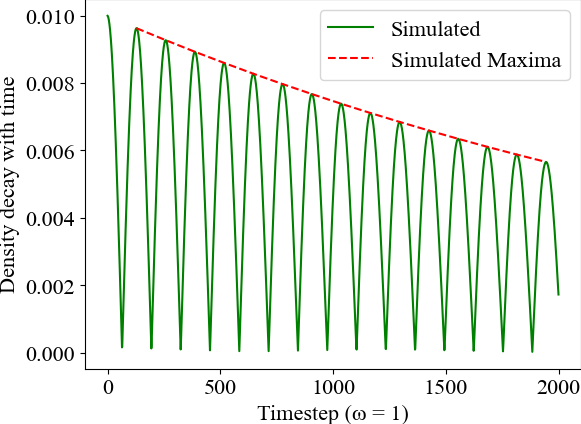
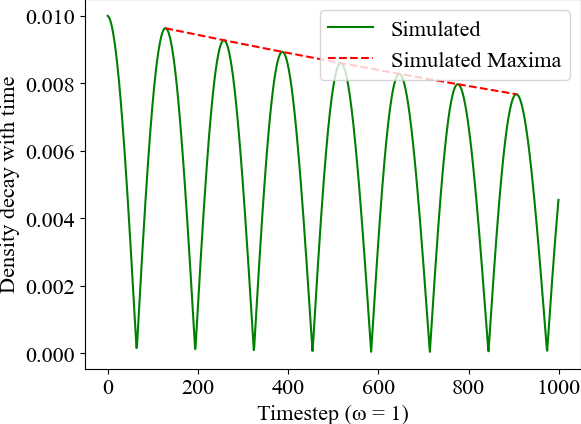
Updated couette flow [RUNNING]

diff --git a/couette_flow.py b/couette_flow.py
@@ -1,0 +1,55 @@
+"""Library Imports"""
+import matplotlib.pyplot as plt
+import numpy as np
+import lbm 
+import constant as CV
+import os
+from typing import Optional
+import sys
+import numpy as np
+from mpi4py import MPI
+import matplotlib.pyplot as plt
+from scipy.optimize import curve_fit
+from scipy.signal import argrelextrema
+from scipy.ndimage import gaussian_filter1d
+from scipy.interpolate import make_interp_spline
+from matplotlib import animation
+from scipy.ndimage.filters import gaussian_filter1d
+
+def couette_flow_simulation(Nx: int, Ny: int, omega: float, output_dir: str, save_every, steps, lid_vel):
+    """ Calculates the shear wave for Nx by Ny D2Q9 lattice"""
+    plt.rcParams.update({'font.size': 16})
+    plt.rcParams["font.family"] = "Times New Roman"
+
+    fig1, ax1 = plt.subplots() #Assigned to continuous flow of velocity  
+    figs, axes = [fig1], [ax1] 
+
+    # Variable declaration
+    common_path = os.path.join(output_dir, 'Couette_flow')    
+    os.makedirs(common_path, exist_ok=True)
+
+    # Initializes density and velocity
+    density = np.ones((Ny, Nx))
+    velocity_field = np.zeros((Ny, Nx, 2))
+
+    # initialize density function w.r.t. rho and u 
+    f = lbm.calculate_equilibrium(density, velocity_field)
+    
+
+    for step in range(steps):
+        print(f'{step+1}//{steps}', end="\r")      
+        
+        f = lbm.streaming(f,Ny, Nx, lid_vel)
+        f, density, velocity = lbm.collision(f, omega)
+
+        if save_every is not None and (not (step % save_every) ):
+            axes[0].cla()
+            axes[0].set_ylabel("Width")
+            axes[0].set_xlabel("velocity in X direction")
+            axes[0].plot(velocity[:,Nx//2,1], np.arange(Ny))
+            save_path = os.path.join(common_path, f'velocity_at{step}.png')
+            axes[0].set_title('Velocity in x direction for lid velocity {} after {} iteration'.format(lid_vel, step))
+            figs[0].savefig(save_path, bbox_inches='tight', pad_inches=0)
+          
+
+

diff --git a/lbm.py b/lbm.py
@@ -15,11 +15,29 @@ def calculate_velocity(f):
     velocity = (np.dot(f, CV.c).T / density.T).T
     return velocity
 
-def streaming(f):
+
+def streaming(f,Ny= None, Nx = None, lid_velocity=None):
     """Streaming takes place here"""
+    # f_copy = np.copy(f)
     for i in range(9):
-        f[:, :, i] = np.roll(np.roll(f[:, :, i], CV.c[i, 0], axis=0), CV.c[i, 1], axis=1)    
+        f[:, :, i] = np.roll(np.roll(f[:, :, i], CV.c[i, 0], axis=0), CV.c[i, 1], axis=1)   
+
+    # return bounce_back(f,lid_velocity)
+    # bounce_back at existing not moving walls
+    if lid_velocity:
+        rho_wall = 2 * (f[-1, :, 6] + f[-1, :, 2] + f[-1, :, 5]) + f[-1, :, 3] + f[-1, :, 0] + f[-1, :, 1]
+        # bounce back at bottom wall
+        f[1,:,2] = f[0,:,4]
+        f[1,:,6] = f[0,:,8] 
+        f[1,:,5] = f[0,:,7]
+
+        # Top moving wall with X velocity
+        f[Ny-2,:,4] = f[Ny-1,:,2] - 1 / 6 * CV.W[2] * rho_wall * np.dot(CV.c[4], [lid_velocity, 0])
+        f[Ny-2,:,7] = f[Ny-1,:,5] - 1 / 6 * CV.W[6] * rho_wall * np.dot(CV.c[7], [lid_velocity, 0])
+        f[Ny-2,:,8] = f[Ny-1,:,6] - 1 / 6 * CV.W[5] * rho_wall * np.dot(CV.c[8], [lid_velocity, 0])
+
     return f
+
 
 # Calculate Feq
 def calculate_equilibrium(density, velocity):

diff --git a/init.py b/init.py
@@ -1,6 +1,7 @@
 import numpy as np
 import constant as CV
 import shear_wave as shear_wave
+import couette_flow as couette
 
 def experiment_type(type):
     if(type == CV.shear_wave):
@@ -12,11 +13,22 @@ def experiment_type(type):
         output_dir = 'results'
         save_every = 100
         simulation_type = 'density' # density/ velocity
-        steps = 2000
+        steps = 1000
         simulated, analytical = shear_wave.shear_wave_simulation(Nx,Ny,omega,eps,output_dir,save_every,steps,simulation_type)
         print('Analytical Viscosity : '+ str(analytical))
         print('Simulated Viscosity : '+ str(simulated))
+    
+    elif (type==CV.couette_flow):        
+        Nx = 100
+        Ny = 50
+        steps = 2000
+        omega = 1
+        output_dir = 'results'
+        save_every = 200
+        lid_velocity = 1
+        couette.couette_flow_simulation(Nx,Ny,omega,output_dir,save_every,steps, lid_velocity)
 
 """Define the experiemnt  category"""
 if __name__ == "__main__":
+    # 'shear_wave', 'couette_flow'
     experiment_type("shear_wave")

diff --git a/constant.py b/constant.py
@@ -5,13 +5,18 @@ opposite_direction = np.array([0,3,4,1,2,7,8,5,6], dtype = np.int8)
 
 # weight values for each direction
 W = np.array([4 / 9, 1 / 9, 1 / 9, 1 / 9, 1 / 9, 1 / 36, 1 / 36, 1 / 36, 1 / 36])
+            #    0, 1, 2, 3, 4, 5, 6, 7, 8
 c_x = np.array([ 0, 1, 0,-1, 0, 1,-1,-1, 1])
 c_y = np.array([ 0, 0, 1, 0,-1, 1, 1,-1,-1])
 c = np.array(list(zip(c_x,c_y)))
 
+
 """Shear Wave constants"""
 velocity = 'velocity'
 density = 'density'
+
+"""Couette Flow"""
+couette_flow = 'couette_flow'
 
 """Experiment Global settings"""
 shear_wave = 'shear_wave'
